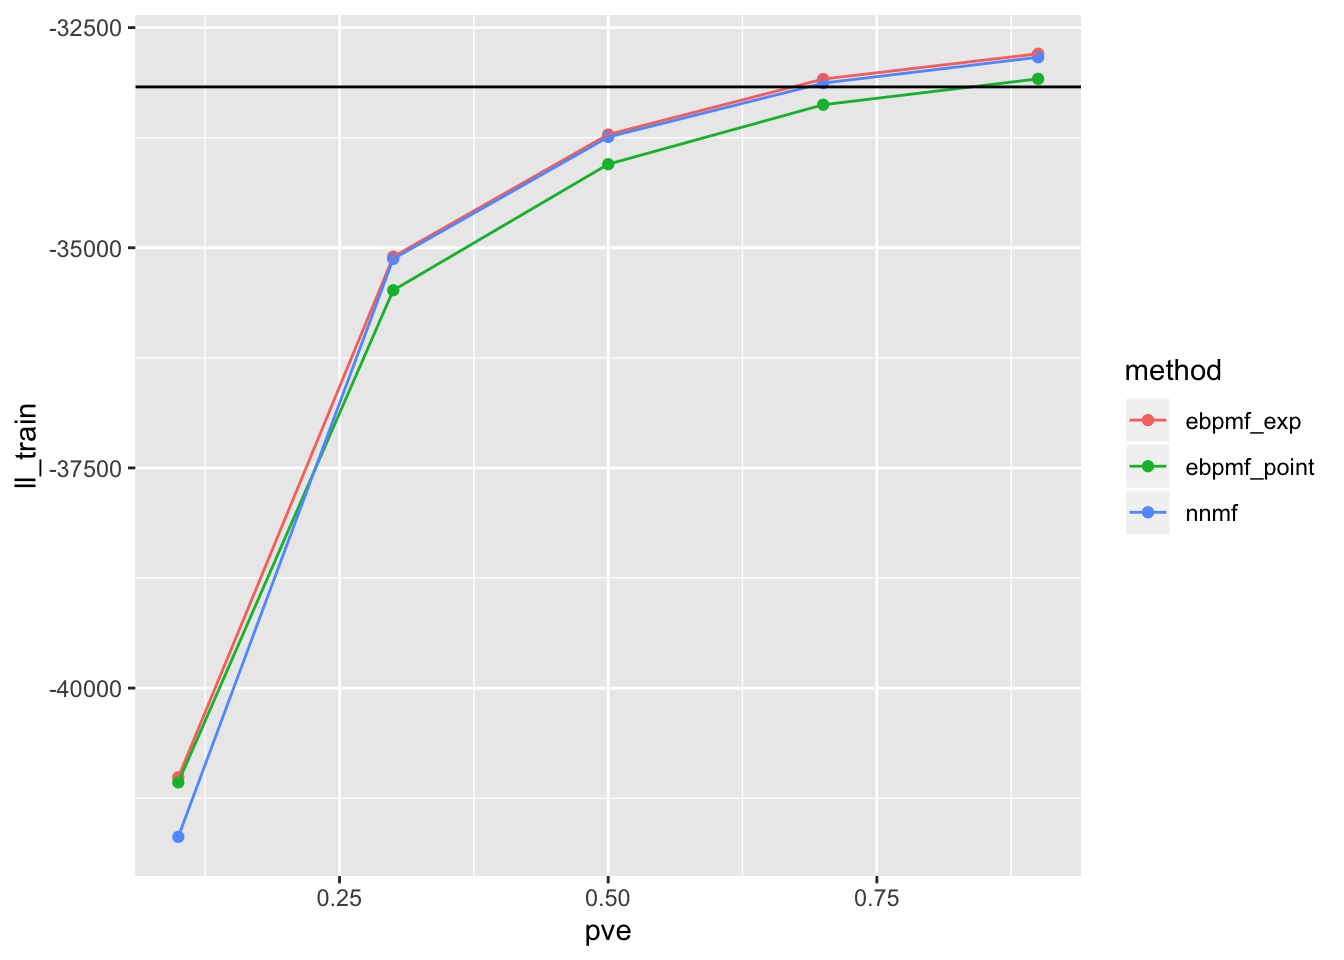
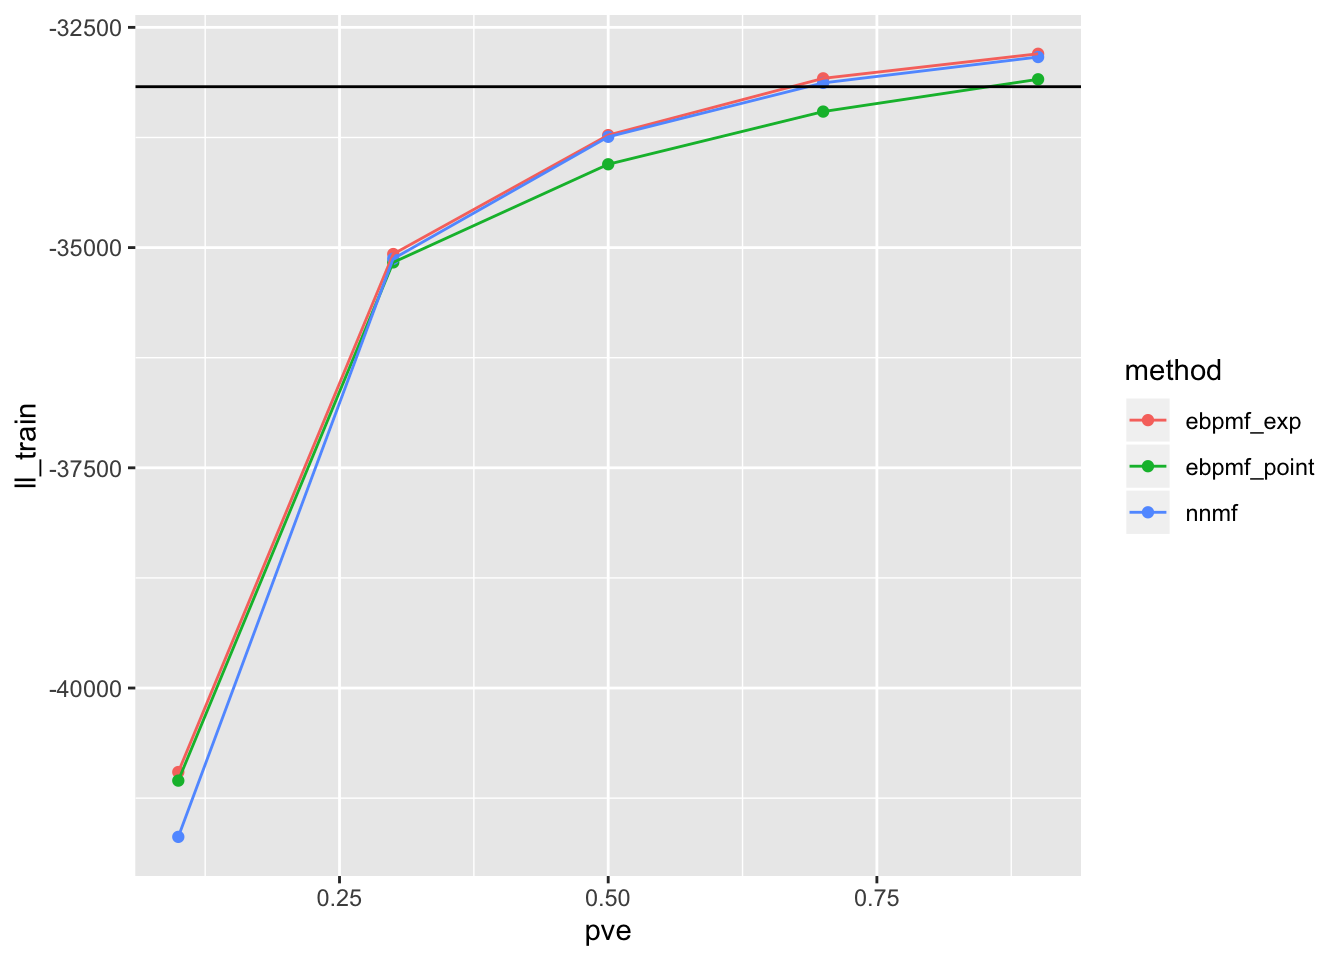
Build site.

diff --git a/docs/Compare_ebpmf_nmf.html b/docs/Compare_ebpmf_nmf.html
@@ -445,7 +445,7 @@ div.section {
 <div class="tab-content">
 <div id="summary" class="tab-pane fade in active">
 <p>
-<strong>Last updated:</strong> 2019-10-13
+<strong>Last updated:</strong> 2019-10-25
 </p>
 <p>
 <strong>Checks:</strong> <span class="glyphicon glyphicon-ok text-success" aria-hidden="true"></span> 7 <span class="glyphicon glyphicon-exclamation-sign text-danger" aria-hidden="true"></span> 0
@@ -536,10 +536,10 @@ This reproducible <a href="http://rmarkdown.rstudio.com">R Markdown</a> analysis
 <div class="panel panel-default">
 <div class="panel-heading">
 <p class="panel-title">
-<a data-toggle="collapse" data-parent="#workflowr-checks" href="#strongRepositoryversionstrongahrefhttpsgithubcomzihao12ebpmfdemotreee13ea5234d11869b8af26a1c2ff454bf28668da0targetblanke13ea52a"> <span class="glyphicon glyphicon-ok text-success" aria-hidden="true"></span> <strong>Repository version:</strong> <a href="https://github.com/zihao12/ebpmf_demo/tree/e13ea5234d11869b8af26a1c2ff454bf28668da0" target="_blank">e13ea52</a> </a>
+<a data-toggle="collapse" data-parent="#workflowr-checks" href="#strongRepositoryversionstrongahrefhttpsgithubcomzihao12ebpmfdemotreeb247d2e7d1357ff10e837ef5b123d4e953ed8beftargetblankb247d2ea"> <span class="glyphicon glyphicon-ok text-success" aria-hidden="true"></span> <strong>Repository version:</strong> <a href="https://github.com/zihao12/ebpmf_demo/tree/b247d2e7d1357ff10e837ef5b123d4e953ed8bef" target="_blank">b247d2e</a> </a>
 </p>
 </div>
[2 lines of base64/hex data omitted]
 <div class="panel-body">
 <p>
 Great! You are using Git for version control. Tracking code development and connecting the code version to the results is critical for reproducibility. The version displayed above was the version of the Git repository at the time these results were generated. <br><br> Note that you need to be careful to ensure that all relevant files for the analysis have been committed to Git prior to generating the results (you can use <code>wflow_publish</code> or <code>wflow_git_commit</code>). workflowr only checks the R Markdown file, but you know if there are other scripts or data files that it depends on. Below is the status of the Git repository when the results were generated:
@@ -553,14 +553,21 @@ Untracked files:
     Untracked:  analysis/.ipynb_checkpoints/
     Untracked:  analysis/ebpmf_demo.Rmd
     Untracked:  analysis/ebpmf_rank1_demo2.Rmd
+    Untracked:  analysis/index.knit.md
+    Untracked:  analysis/index.utf8.md
     Untracked:  analysis/softmax_experiments.ipynb
     Untracked:  data/trash/
     Untracked:  docs/figure/Experiment_ebpmf_rankk.Rmd/
     Untracked:  docs/figure/test.Rmd/
+    Untracked:  verbose_log_1571583163.21966.txt
+    Untracked:  verbose_log_1571583324.71036.txt
+    Untracked:  verbose_log_1571583741.94199.txt
+    Untracked:  verbose_log_1571588102.40356.txt
 
 Unstaged changes:
     Modified:   analysis/ebpmf_rank1_demo.Rmd
     Modified:   analysis/ebpmf_rankk_demo.Rmd
+    Modified:   analysis/index.Rmd
     Modified:   analysis/softmax_experiments.Rmd
 
 </code></pre>
@@ -605,6 +612,40 @@ Message
 Rmd
 </td>
 <td>
+<a href="https://github.com/zihao12/ebpmf_demo/blob/b247d2e7d1357ff10e837ef5b123d4e953ed8bef/analysis/Compare_ebpmf_nmf.Rmd" target="_blank">b247d2e</a>
+</td>
+<td>
+zihao12
+</td>
+<td>
+2019-10-25
+</td>
+<td>
+rerun analysis after updating
+</td>
+</tr>
+<tr>
+<td>
+html
+</td>
+<td>
+<a href="https://rawcdn.githack.com/zihao12/ebpmf_demo/83683f8b6ce4af955f99bf5de1671179a2df73d7/docs/Compare_ebpmf_nmf.html" target="_blank">83683f8</a>
+</td>
+<td>
+zihao12
+</td>
+<td>
+2019-10-13
+</td>
+<td>
+Build site.
+</td>
+</tr>
+<tr>
+<td>
+Rmd
+</td>
+<td>
 <a href="https://github.com/zihao12/ebpmf_demo/blob/e13ea5234d11869b8af26a1c2ff454bf28668da0/analysis/Compare_ebpmf_nmf.Rmd" target="_blank">e13ea52</a>
 </td>
 <td>
@@ -625,11 +666,12 @@ Compare_ebpmf_nmf.Rmd
 </div>
 </div>
 <pre class="r"><code>rm(list = ls())
-library(ebpmf)
+devtools::load_all(&quot;../ebpmf&quot;)</code></pre>
+<pre><code>Loading ebpmf</code></pre>
+<pre class="r"><code>library(ebpmf)
 library(gtools)
 library(NNLM)
 library(ggplot2)</code></pre>
-<pre><code>Warning: package &#39;ggplot2&#39; was built under R version 3.5.2</code></pre>
 <div id="goal" class="section level2">
 <h2>Goal</h2>
 <p>In previous experiments <a href="https://zihao12.github.io/ebpmf_demo/Issue_ebpmf_issue2.html" class="uri">https://zihao12.github.io/ebpmf_demo/Issue_ebpmf_issue2.html</a>, we found <code>ebpmf</code> and <code>nmf</code> (I use Lee’s multiplicative update, so it is EM algorithm for solving the MLE) have different performance on different dataset. Here I want to simulate data from a quantifiable noise level, as described here <a href="https://www.overleaf.com/project/5bd084d90a33772e7a7f99a2" class="uri">https://www.overleaf.com/project/5bd084d90a33772e7a7f99a2</a> (pve.tex), and see their performance.</p>
@@ -752,15 +794,126 @@ df = data.frame(pve = pves, method = methods, ll_train = ll_trains, ll_val = ll_
   geom_line(aes(x = pve, y = ll_train, color = method))+
   geom_abline(slope = 0, intercept = compute_ll(sim$X, sim$Lam))</code></pre>
 <p><img src="figure/Compare_ebpmf_nmf.Rmd/plot-1.png" width="672" style="display: block; margin: auto;" /></p>
+<p>
+<button type="button" class="btn btn-default btn-xs btn-workflowr btn-workflowr-fig" data-toggle="collapse" data-target="#fig-plot-1">
+Past versions of plot-1.png
+</button>
+</p>
+<div id="fig-plot-1" class="collapse">
+<div class="table-responsive">
+<table class="table table-condensed table-hover">
+<thead>
+<tr>
+<th>
+Version
+</th>
+<th>
+Author
+</th>
+<th>
+Date
+</th>
+</tr>
+</thead>
+<tbody>
+<tr>
+<td>
+<a href="https://github.com/zihao12/ebpmf_demo/blob/83683f8b6ce4af955f99bf5de1671179a2df73d7/docs/figure/Compare_ebpmf_nmf.Rmd/plot-1.png" target="_blank">83683f8</a>
+</td>
+<td>
+zihao12
+</td>
+<td>
+2019-10-13
+</td>
+</tr>
+</tbody>
+</table>
+</div>
+</div>
 <pre class="r"><code>ggplot(df)+
   geom_point(aes(x = pve, y = ll_val, color = method))+
   geom_line(aes(x = pve, y = ll_val, color = method))+
   geom_abline(slope = 0, intercept = compute_ll(sim$Y, sim$Lam))</code></pre>
 <p><img src="figure/Compare_ebpmf_nmf.Rmd/plot-2.png" width="672" style="display: block; margin: auto;" /></p>
+<p>
+<button type="button" class="btn btn-default btn-xs btn-workflowr btn-workflowr-fig" data-toggle="collapse" data-target="#fig-plot-2">
+Past versions of plot-2.png
+</button>
+</p>
+<div id="fig-plot-2" class="collapse">
+<div class="table-responsive">
+<table class="table table-condensed table-hover">
+<thead>
+<tr>
+<th>
+Version
+</th>
+<th>
+Author
+</th>
+<th>
+Date
+</th>
+</tr>
+</thead>
+<tbody>
+<tr>
+<td>
+<a href="https://github.com/zihao12/ebpmf_demo/blob/83683f8b6ce4af955f99bf5de1671179a2df73d7/docs/figure/Compare_ebpmf_nmf.Rmd/plot-2.png" target="_blank">83683f8</a>
+</td>
+<td>
+zihao12
+</td>
+<td>
+2019-10-13
+</td>
+</tr>
+</tbody>
+</table>
+</div>
+</div>
 <pre class="r"><code>ggplot(df)+
   geom_point(aes(x = pve, y = RMSE, color = method)) +
   geom_line(aes(x = pve, y = RMSE, color = method))</code></pre>
 <p><img src="figure/Compare_ebpmf_nmf.Rmd/plot-3.png" width="672" style="display: block; margin: auto;" /></p>
+<p>
+<button type="button" class="btn btn-default btn-xs btn-workflowr btn-workflowr-fig" data-toggle="collapse" data-target="#fig-plot-3">
+Past versions of plot-3.png
+</button>
+</p>
+<div id="fig-plot-3" class="collapse">
+<div class="table-responsive">
+<table class="table table-condensed table-hover">
+<thead>
+<tr>
+<th>
+Version
+</th>
+<th>
+Author
+</th>
+<th>
+Date
+</th>
+</tr>
+</thead>
+<tbody>
+<tr>
+<td>
+<a href="https://github.com/zihao12/ebpmf_demo/blob/83683f8b6ce4af955f99bf5de1671179a2df73d7/docs/figure/Compare_ebpmf_nmf.Rmd/plot-3.png" target="_blank">83683f8</a>
+</td>
+<td>
+zihao12
+</td>
+<td>
+2019-10-13
+</td>
+</tr>
+</tbody>
+</table>
+</div>
+</div>
 <br>
 <p>
 <button type="button" class="btn btn-default btn-workflowr btn-workflowr-sessioninfo" data-toggle="collapse" data-target="#workflowr-sessioninfo" style="display: block;">
@@ -784,19 +937,29 @@ attached base packages:
 [1] stats     graphics  grDevices utils     datasets  methods   base     
 
 other attached packages:
-[1] ggplot2_3.2.1 NNLM_0.4.2    gtools_3.8.1  ebpmf_0.1.0  
+[1] ggplot2_3.2.1  NNLM_0.4.2     gtools_3.8.1   ebpmf_0.1.0   
+[5] testthat_2.2.1
 
 loaded via a namespace (and not attached):
- [1] Rcpp_1.0.2       compiler_3.5.1   pillar_1.4.2     git2r_0.25.2    
- [5] workflowr_1.4.0  tools_3.5.1      digest_0.6.21    evaluate_0.14   
- [9] tibble_2.1.3     gtable_0.3.0     pkgconfig_2.0.3  rlang_0.4.0     
-[13] yaml_2.2.0       xfun_0.8         withr_2.1.2      stringr_1.4.0   
-[17] dplyr_0.8.1      knitr_1.25       fs_1.3.1         rprojroot_1.3-2 
-[21] grid_3.5.1       tidyselect_0.2.5 glue_1.3.1       R6_2.4.0        
-[25] rmarkdown_1.13   mixsqp_0.1-121   purrr_0.3.2      magrittr_1.5    
-[29] whisker_0.3-2    backports_1.1.5  scales_1.0.0     htmltools_0.3.6 
-[33] assertthat_0.2.1 colorspace_1.4-1 labeling_0.3     stringi_1.4.3   
-[37] lazyeval_0.2.2   munsell_0.5.0    ebpm_0.0.0.9000  crayon_1.3.4    </code></pre>
+ [1] tidyselect_0.2.5    xfun_0.8            remotes_2.1.0      
+ [4] purrr_0.3.2         colorspace_1.4-1    usethis_1.5.1      
+ [7] htmltools_0.3.6     yaml_2.2.0          rlang_0.4.0        
+[10] pkgbuild_1.0.3      mixsqp_0.1-121      pillar_1.4.2       
+[13] glue_1.3.1          withr_2.1.2         sessioninfo_1.1.1  
+[16] ebpm_0.0.0.9001     stringr_1.4.0       munsell_0.5.0      
+[19] gtable_0.3.0        workflowr_1.4.0     devtools_2.2.1.9000
+[22] memoise_1.1.0       evaluate_0.14       labeling_0.3       
+[25] knitr_1.25          callr_3.2.0         ps_1.3.0           
+[28] Rcpp_1.0.2          backports_1.1.5     scales_1.0.0       
+[31] desc_1.2.0          pkgload_1.0.2       fs_1.3.1           
+[34] digest_0.6.22       stringi_1.4.3       processx_3.3.1     
+[37] dplyr_0.8.1         rprojroot_1.3-2     grid_3.5.1         
+[40] cli_1.1.0           tools_3.5.1         magrittr_1.5       
+[43] lazyeval_0.2.2      tibble_2.1.3        crayon_1.3.4       
+[46] whisker_0.3-2       pkgconfig_2.0.3     ellipsis_0.3.0     
+[49] prettyunits_1.0.2   assertthat_0.2.1    rmarkdown_1.13     
+[52] rstudioapi_0.10     R6_2.4.0            git2r_0.25.2       
+[55] compiler_3.5.1     </code></pre>
 </div>
 </div>
 
